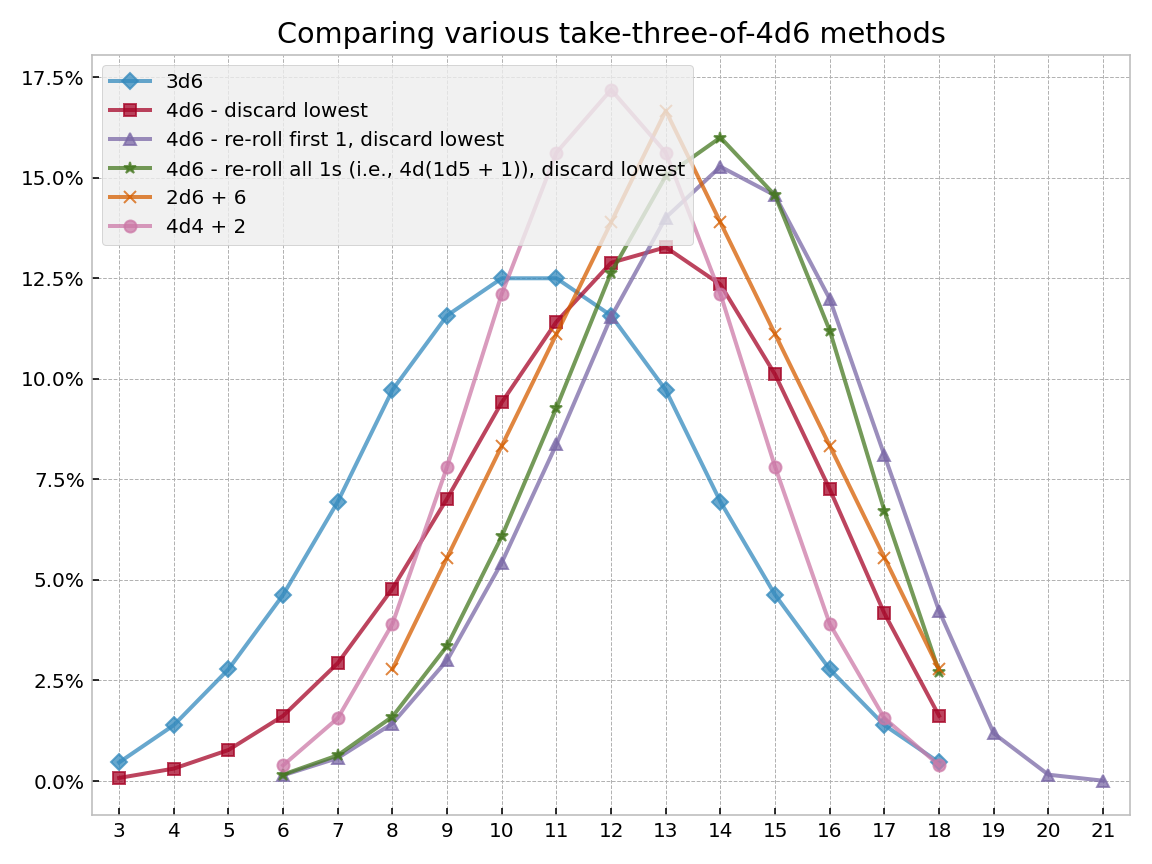
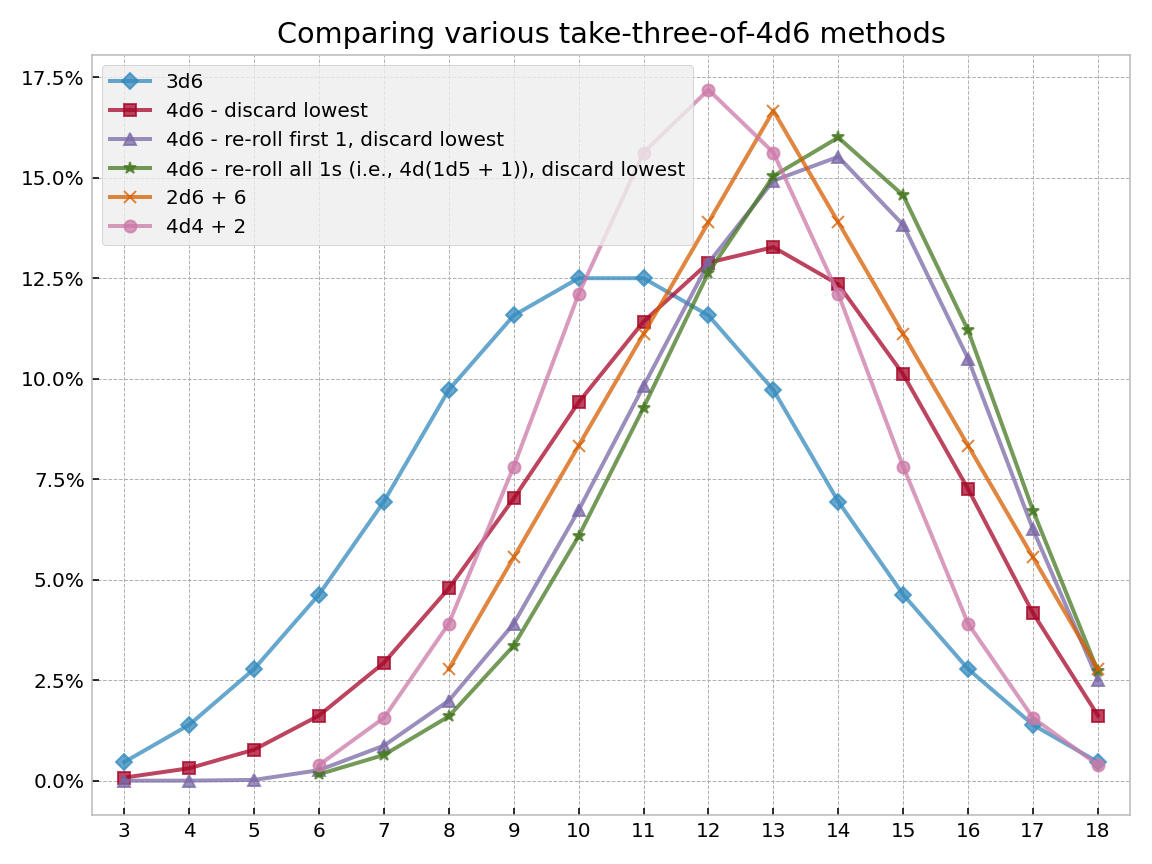
Fix logic error for 4d6 variants example

diff --git a/docs/assets/plot_4d6_variants.py b/docs/assets/plot_4d6_variants.py
@@ -9,14 +9,17 @@
 from anydyce.viz import plot_line
 
 from dyce import H, P
-from dyce.evaluation import explode
+from dyce.evaluation import foreach
 
 
 def do_it(style: str) -> None:
     import matplotlib.pyplot
 
     p_4d6 = 4 @ P(6)
-    d6_reroll_first_one = explode(H(6), lambda result: result.outcome == 1)
+    d6_reroll_first_one = foreach(
+        lambda h_result: h_result.h if h_result.outcome == 1 else h_result.outcome,
+        h_result=H(6),
+    )
     p_4d6_reroll_first_one = 4 @ P(d6_reroll_first_one)
     p_4d6_reroll_all_ones = 4 @ P(H(5) + 1)
 
@@ -43,7 +46,7 @@ def do_it(style: str) -> None:
         [(label, res) for label, res in attr_results.items()],
     )
 
-    for line, marker in zip(ax.lines, markers):
+    for line, marker in zip(ax.lines, markers, strict=True):
         line.set_marker(marker)
 
     ax.legend()
